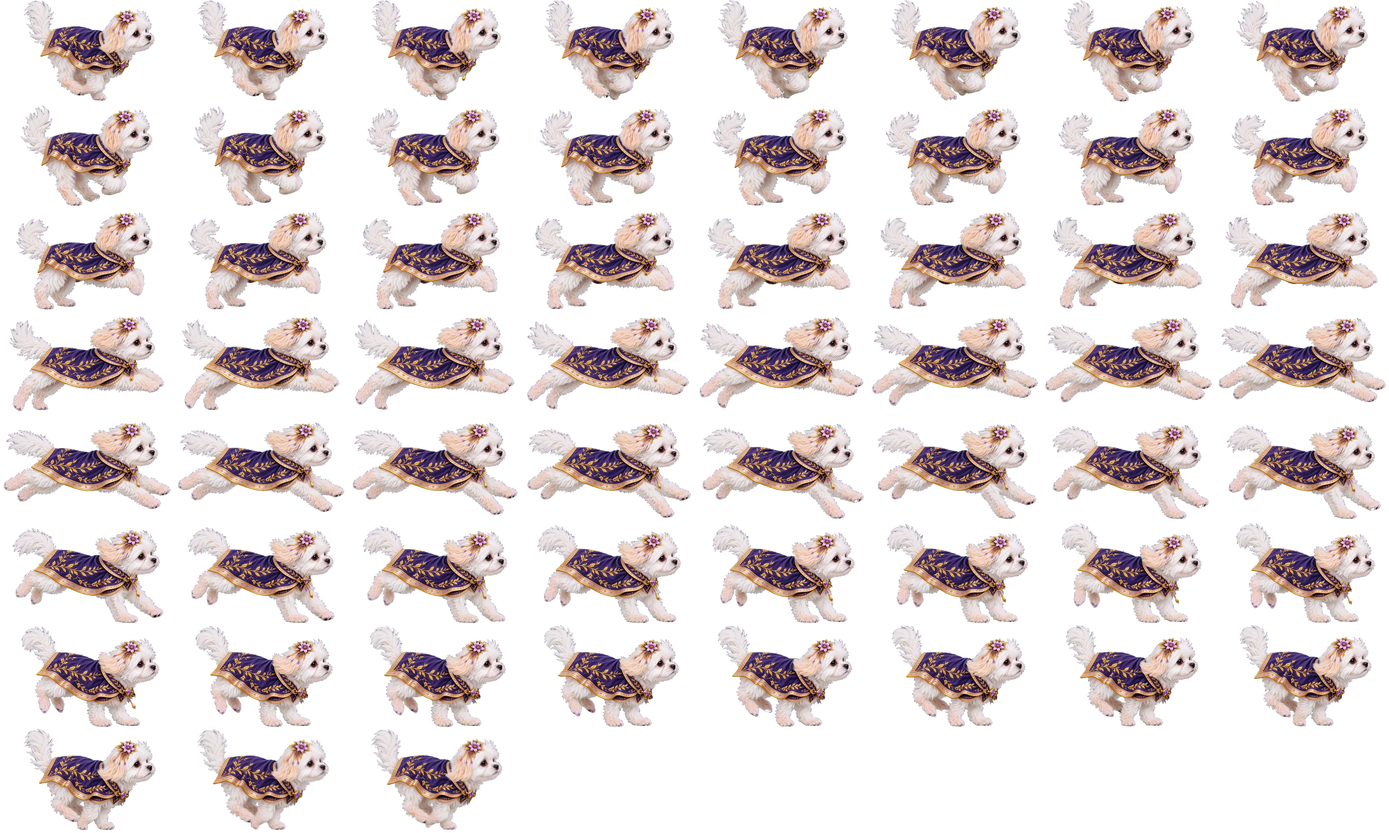
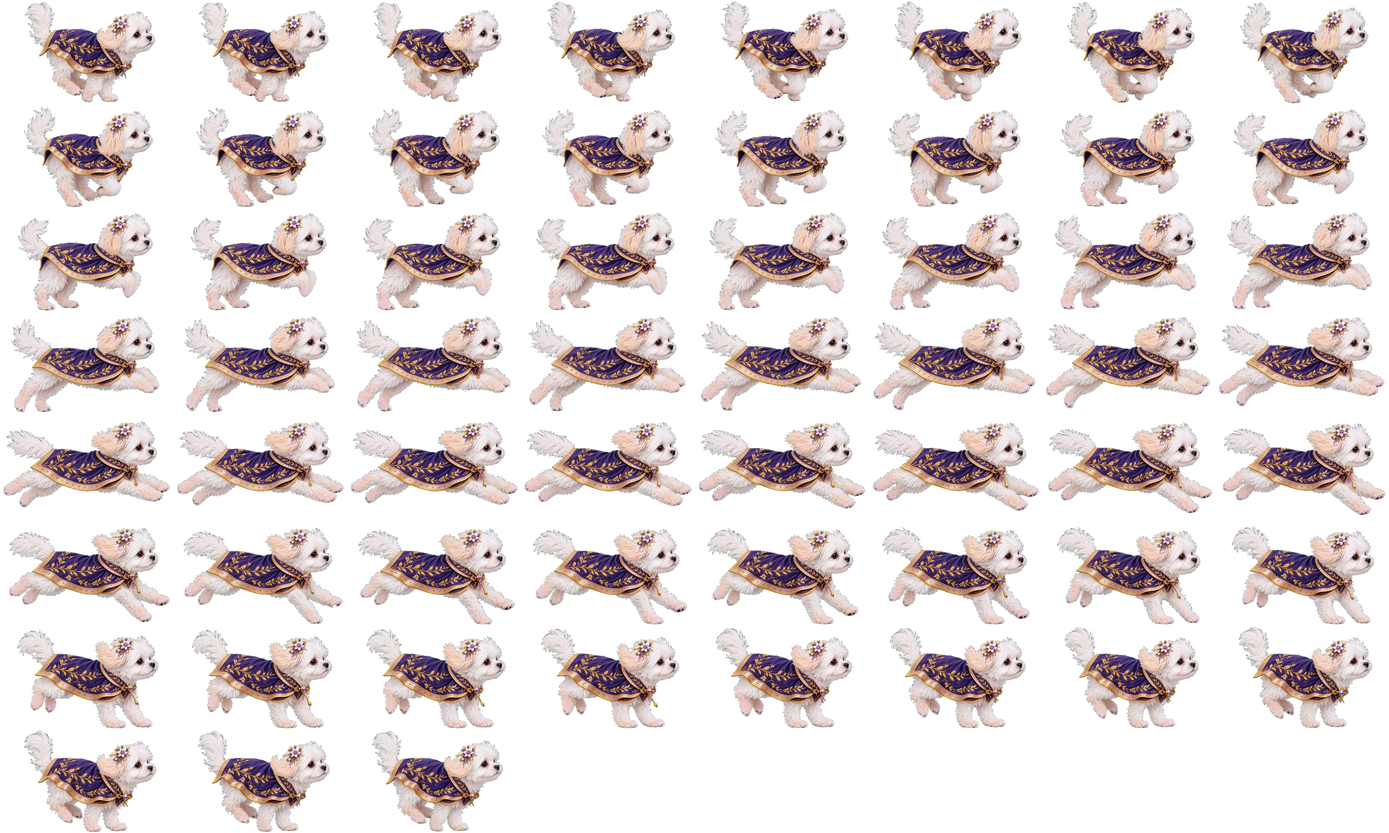
Xiaobai's whole Noble look is the Noble capelet's clips with the headpiece laid on, walking, sitting, galloping and eating as its patting already was, so eating and patting start and end on its own sitting frame (patting used to jump at both ends); the API doc lists both of its sets

diff --git a/mobile/src/components/garden/critters/puppyLooks.ts b/mobile/src/components/garden/critters/puppyLooks.ts
@@ -99,10 +99,11 @@ export const actionSeconds = (frames: ActionFrames) => frames.count / ACTION_FPS
 // Xiaobai eats and is patted too, in every look, with the golden's bowl and the golden's hand
 // (2026-11-05, Kiro; ~/dev/petalpal-motion/maltese/actions): oil-motion clips that start and end on
 // each look's held sitting frame (its sit sheet's last cell), cut at the sit sheets' scale
-// (220 / 690). Its own clips for bare, the light capelet, petal, the Noble capelet and Noble eating;
-// the light and Noble hats and necklaces are laid onto the bare clips, the light ones onto the
-// capelet's, and Noble's pat is the Noble capelet's with the headpiece laid on (its own pat clips
-// both brought a long lace sleeve, unlike the golden's hand). Cells start 80 video px left of the
+// (220 / 690). Its own clips for bare, the light capelet, petal and the Noble capelet; the light
+// and Noble hats and necklaces are laid onto the bare clips, the light ones onto the capelet's, and
+// the whole Noble look's eat and pat are the Noble capelet's with the headpiece laid on, like its
+// walk, sit and run (2026-11-06: its own Noble eating clip sat differently from its sit; its own
+// pat clips both brought a long lace sleeve, unlike the golden's hand). Cells start 80 video px left of the
 // sit cells (the capelets' tails reach past them), eat cells a little taller (the bowl), pat cells
 // up to the frame's top and right edge for the hand; `anchorX` is the sit cell's centre in them.
 const malteseActions = (eat: number, pat: number): Record<PuppyAction, ActionFrames> => ({
@@ -143,8 +144,8 @@ export function puppyLookOf(outfit: PetOutfit | null): PuppyLook {
 
 // The Maltese's looks (its sheets: MALTESE_LOOKS in GardenCritters.tsx), in its own pieces: a
 // flower clip (hat), a pink bow with two charms (necklace) and a lilac capelet fastened by a gold
-// clasp (cape); all three on is its petal look. It has no wardrobe of its own yet: it wears the
-// kinds of piece its friend the puppy has on (any set), malteseLookOfOutfit.
+// clasp (cape); all three on is its petal look. It wears its own outfit (the server keeps one for
+// it): malteseLookOfOutfit; on a server from before it had one, the kinds of piece its friend wears.
 // Its second set, Noble (the Noble design sheet: lilac flower headpiece with gold beads, deep violet
 // capelet with gold embroidery, violet crystal clasp), piece by piece like the first: `noble-hat`,
 // `noble-necklace` (the clasp on a fine gold chain), `noble-hat-necklace`, `noble-cape` (the capelet

diff --git a/mobile/src/components/garden/critters/GardenCritters.tsx b/mobile/src/components/garden/critters/GardenCritters.tsx
@@ -68,12 +68,12 @@ const MALTESE_LOOKS: Record<MalteseLook, Frames & { source: number }> = {
     require('@/assets/garden/critters/maltese-looks/run-cape.webp')),
   'cape-hat': malteseCape(require('@/assets/garden/critters/maltese-looks/walk-cape-hat.webp'), require('@/assets/garden/critters/maltese-looks/sit-cape-hat.webp'),
     require('@/assets/garden/critters/maltese-looks/run-cape-hat.webp')),
-  // Its Noble outfit (2026-11-05): its own clips from today's painting dressed by one gpt-image edit,
-  // only the outfit pasted back so the dog is the same (~/dev/petalpal-motion/maltese/noble); walk one
-  // 43-frame stride, gallop from the bare gallop's key dressed the same way.
-  noble: { source: require('@/assets/garden/critters/maltese-looks/walk-noble.webp'), columns: 8, count: 43, ground: 216, loop: 51.1,
+  // Its Noble outfit: the Noble capelet's clips with the headpiece laid on (2026-11-06; noble/pieces/
+  // rebuild_noble.sh), like its pat and eat, so every move of the look comes from one set of clips
+  // and eating or patting starts and ends on its own sitting frame; the capelet's loops and strides.
+  noble: { source: require('@/assets/garden/critters/maltese-looks/walk-noble.webp'), columns: 8, count: 46, ground: 216, loop: 30.6,
     rest: { source: require('@/assets/garden/critters/maltese-looks/sit-noble.webp'), count: 20, rise: 1 },
-    run: { source: require('@/assets/garden/critters/maltese-looks/run-noble.webp'), columns: 8, count: 59, loop: 70,
+    run: { source: require('@/assets/garden/critters/maltese-looks/run-noble.webp'), columns: 8, count: 59, loop: 66.9,
       cell: { w: 395.4, h: 237.2, x: -47.83, y: -17.8 } } },
   // Its Noble pieces one by one (2026-11-05, Kiro; ~/dev/petalpal-motion/maltese/noble/pieces):
   // the headpiece and the clasp on its chain laid onto the bare clips like the light pieces, so they

diff --git a/docs/handoff/garden-pet-wardrobe.md b/docs/handoff/garden-pet-wardrobe.md
@@ -134,7 +134,10 @@ Not done yet (next work, in the owner's order):
    loops), `noble-cape` (its own clips: the Noble painting and gallop key with the headpiece taken
    off, `cape/compose_cape.py`, no paid edit; 3 minimax videos plus one walk retry because the first
    walk's backdrop turned grey and keyed into the fur; walk 41+46, sit 0+80 → 20, run 24+59; strides
-   from the measured paw slide, 30.6 and 66.9), and `noble` (capelet and headpiece, as before). All
+   from the measured paw slide, 30.6 and 66.9), and `noble` (capelet and headpiece; since 2026-11-06
+   the capelet's clips with the headpiece laid on, `pieces/rebuild_noble.sh`, so its sit matches its
+   eat and pat: its own Noble clips from `f01364e0` sat differently and patting jumped at both ends;
+   the capelet's loops and strides). All
    in `~/dev/petalpal-motion/maltese/noble/`. Closet icons from its own art (`pieces/make_icons.py`
    → `maltese-noble-*.webp`). Paid this round: 1 gpt-image edit, 4 videos.
    *Xiaobai eats and is patted in every look (2026-11-05, Kiro, owner's request: the patting hand
@@ -145,7 +148,8 @@ Not done yet (next work, in the owner's order):
    `find_sit.py`, `make_bases.py`); eating's first frame is that frame with only the bowl taken from a
    gpt-image edit (`paste_bowl.py`: the golden's cream bowl with the lilac band). The pat prompts use
    the golden's hand words unchanged (`write_prompts.py`). Own clips: bare, light capelet, petal,
-   Noble capelet (eat and pat), Noble (eat only). Pieces laid on with a frame-to-frame head and
+   Noble capelet (eat and pat); the whole Noble look's eat and pat are the capelet's with the
+   headpiece laid on (its own Noble eating clip is no longer used). Pieces laid on with a frame-to-frame head and
    throat track (`maltese_track.py`, after the golden's `action_track.py`; `--probe`, `--track`,
    `--hand` added to `overlay_maltese.py` / `overlay_noble.py`): light and Noble hat/necklace/both on
    the bare clips, light hat and bow (no ribbon) on the light capelet's, and **Noble's pat is the

diff --git a/docs/product/FAIRY_CLOSENESS_API.md b/docs/product/FAIRY_CLOSENESS_API.md
@@ -206,7 +206,7 @@
 - `PUT /api/fairy/pets/:petId/outfit`，请求体 `{ hat, collar, pendant }`，传 `null` 是脱下。没解锁返回 409 `ACCESSORY_LOCKED`，不是这一行的件返回 400。
 - `POST /api/fairy/pets/:petId/feed`，请求体 `{ foodId }`，返回 `{ foodId, count }`。没有库存返回 409 `NO_FOOD`。
 - `petId`：`puppy` `hedgehog` `butterfly` `rabbit` `bluebird` `maltese`。喂食和摸头不加亲密度。
-- 小白（`maltese`）只能穿自己的三件：头饰 `flower-sprig`（花夹）、披风 `petal-capelet`（披肩）、挂饰 `crystal-drop`（蝴蝶结），别的件返回 400 `UNKNOWN_ACCESSORY`。解锁规则和其他件一样。
+- 小白（`maltese`）只能穿自己的两套，每格两件：浅色款是头饰 `flower-sprig`（小花夹）、披风 `petal-capelet`（紫色小披肩）、挂饰 `crystal-drop`（粉色蝴蝶结）；Noble 款是头饰 `golden-circlet`（紫藤金叶头饰）、披风 `midnight-cape`（星夜紫披肩）、挂饰 `crystal-spire`（紫晶扣链）。别的件返回 400 `UNKNOWN_ACCESSORY`（`lib/garden-pets.js` 的 `PET_OWN_PIECES`）。解锁规则和其他件一样。花园里一次只显示一套：有披风就以披风那套为准，没有就看头饰，再看挂饰；Noble 披风自带水晶扣，同时戴的 Noble 挂饰不显示。
 
 **花园里怎么显示（App，[puppyLooks.ts](../../mobile/src/components/garden/critters/puppyLooks.ts)）**
 
